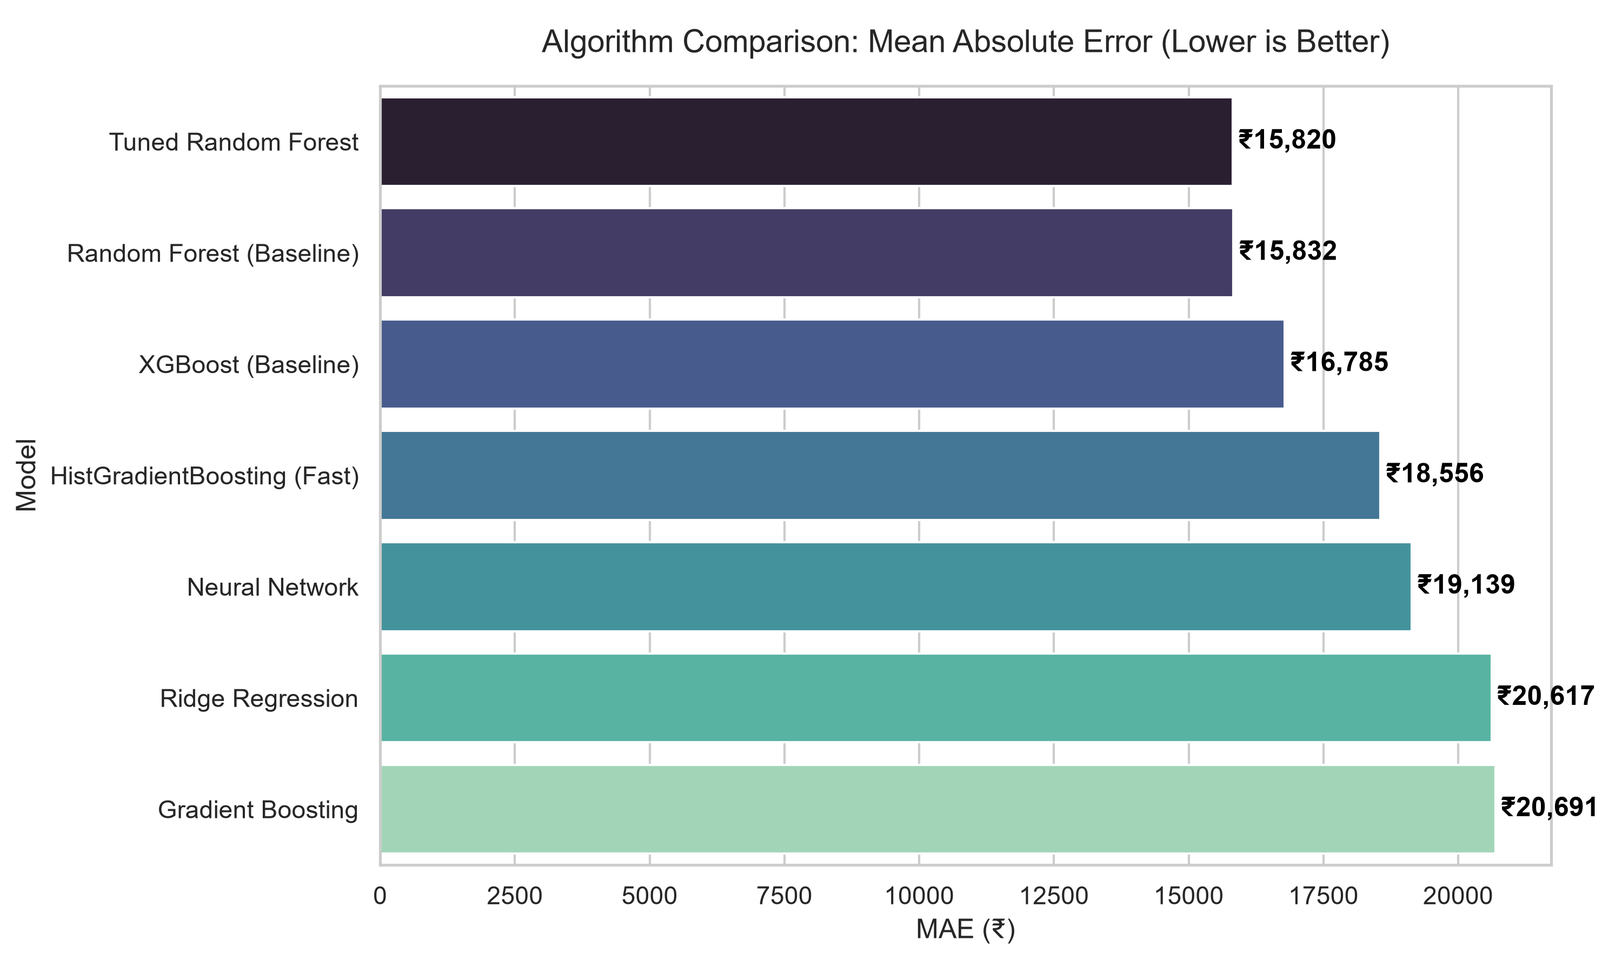
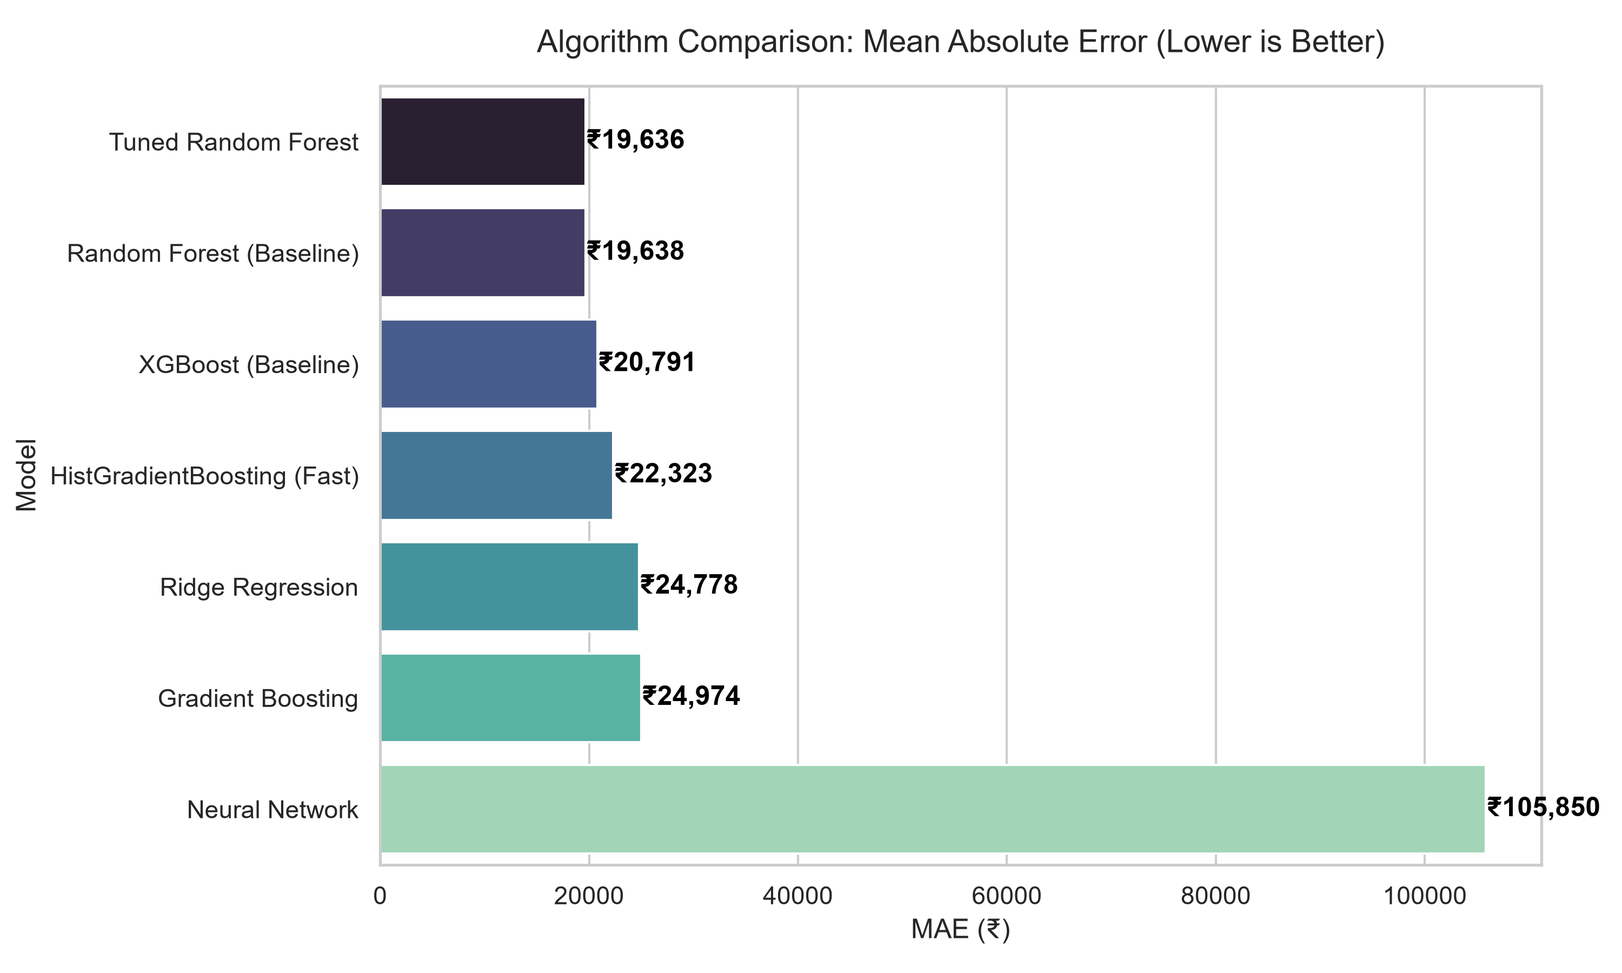
chore: perform comprehensive repository audit and initialize backend infrastructure for ML model management and data processing.

diff --git a/backend/ml/compare_models.py b/backend/ml/compare_models.py
@@ -32,8 +32,8 @@ df = clean_laptop_data(df)
 df = df[(df["price"] >= 10000) & (df["price"] <= 500000)]
 
 # ─── 3. Features, Preprocessing, Outliers ──────────────────────────────────────
-from data_cleaning import prepare_training_data
-X, y, preprocessor, df, categorical_cols, numerical_cols = prepare_training_data(df)
+from data_cleaning import get_features_and_preprocessor
+X, y, preprocessor, categorical_cols, numerical_cols = get_features_and_preprocessor(df)
 
 
 # ─── 4. Models to Compare ─────────────────────────────────────────────────────

diff --git a/PROJECT_REVIEW.md b/PROJECT_REVIEW.md
@@ -1,0 +1,230 @@
+# LaptopLens repository improvement audit
+
+Reviewed 2026-07-05 using the codebase knowledge graph, direct inspection of every tracked source/configuration area, Python compilation and import smoke tests, Flask test-client probes, Ruff, and a Vite production build attempt.
+
+## Highest-priority findings
+
+1. **[Critical correctness] Recommendation cache keys omit most inputs.** `backend/api/app.py:479` keys only on predicted price, confidence band, and use case. It omits RAM, processor/CPU tier, GPU, brand, `use_live`, and future ranking inputs. A test-client probe confirmed that requests for different specs return identical cached laptops. Serialize every normalized ranking input (and a cache/data schema version) into the key.
+
+2. **[High availability/security] Public requests can launch browsers.** `POST /api/recommend` accepts `use_live`, and `GET /api/laptop-image` can start Selenium for arbitrary names. There is no authentication, rate limit, concurrency limit, queue, or circuit breaker. One caller can exhaust CPU, RAM, browser processes, and worker slots. Disable live scraping in the public API by default, restrict it server-side, validate input length, rate-limit it, and move browser work to a bounded job worker.
+
+3. **[High deployment] Playwright system dependency installation runs after switching to a non-root user.** In `Dockerfile:29-42`, `USER user` precedes `playwright install-deps chromium`; that command normally needs root for apt packages. `|| echo` then hides failure, producing a successful image with broken live scraping. Install OS/browser dependencies as root, then switch users; fail explicitly when live scraping is enabled.
+
+4. **[High ML validity] Outlier removal leaks information across folds.** `backend/ml/data_cleaning.py:115-125` fits preprocessing on the entire dataset before cross-validated outlier predictions, then removes rows before the later model CV. Validation folds influence feature encoding and inclusion. Put all learned preprocessing/outlier logic inside each training fold, or derive cleaning thresholds on training folds only.
+
+5. **[High ML validity] There is no untouched final test set.** `backend/ml/train_model.py:84-113` uses cross-validation scores for reporting and then fits on all data. This is fine for model selection only if a separate test set or external temporal evaluation exists. Preserve a final holdout (ideally time/source/group split) and report both CV and holdout results.
+
+6. **[High reliability] The in-memory cache is inconsistent across Gunicorn workers.** `Dockerfile` starts two workers, each with its own `scrape_cache`. Hits, invalidations, and browser suppression differ by worker and disappear on restart. Use Redis or another shared bounded cache, or deliberately run one worker and document the tradeoff.
+
+7. **[High reliability] Cache growth is unbounded.** `TTLCache` lazily expires only accessed keys and has no maximum size or cleanup pass. Arbitrary price/band/use-case combinations can accumulate for three hours per worker. Add `maxsize`, periodic expiry, canonicalized/bucketed keys, and metrics.
+
+8. **[High API hygiene] Internal exception strings are returned to clients.** `backend/api/app.py:438-440` and `:545-548` turn unexpected exceptions into public 400 responses. This misclassifies server faults and may expose paths/library details. Return stable error codes/messages, use 500 for unexpected failures, and retain details only in logs.
+
+9. **[High reproducibility] Python dependencies are not locked.** `requirements.txt` uses only lower bounds. Future image builds can silently change NumPy, pandas, scikit-learn, XGBoost, Selenium, or Flask and break pickle compatibility. Produce a hashed lock/constraints file, document the Python version, and rebuild model artifacts under the same environment.
+
+10. **[High supply-chain/reproducibility] Runtime unpickling trusts checked-in binary artifacts.** `backend/api/app.py:56-60` and the CLI load pickle files at startup. Pickle executes code and is version-sensitive. Treat artifacts as trusted release assets with checksums/provenance; consider safer model formats or signed artifacts.
+
+## Backend and API
+
+11. Add explicit request schemas (Pydantic/Marshmallow/dataclasses) instead of permissive coercion. Missing/malformed numbers currently become defaults, so typos can yield plausible but wrong predictions rather than a 422 response.
+
+12. Validate `Content-Type: application/json`; `_json_body()` silently turns any invalid body into `{}`. Distinguish malformed JSON from missing required fields.
+
+13. Set `MAX_CONTENT_LENGTH` and reject oversized bodies before parsing.
+
+14. Validate categorical values against metadata server-side. The API only checks non-empty strings, while the model silently ignores unknown one-hot categories.
+
+15. Validate `use_case` against the supported enum. Unknown strings bypass filters and fragment the cache.
+
+16. Reject or normalize non-finite floats (`NaN`, `Infinity`) explicitly in `_as_float` using `math.isfinite`.
+
+17. Move `NUM_BOUNDS` to module configuration shared by API, UI metadata, training, and tests; duplicated implicit bounds will drift.
+
+18. The recommendation endpoint docstring says source is `mock|live`, but implementation also returns `real`. Update the contract and frontend types/comments.
+
+19. The recommendation cache should not use truthiness (`if cached:`); check `is not None` so valid empty results are cacheable.
+
+20. Include dataset/model version in recommendation cache keys to prevent stale results after deployments.
+
+21. Precompute normalized recommendation features when loading the CSV. `_recommend_from_real_data` reparses and rebuilds vectors for all 6,184 rows on every cache miss.
+
+22. Avoid `DataFrame.iterrows()` at import time. Use vectorized cleanup/`to_dict("records")`, validate the CSV schema, and quarantine malformed rows instead of abandoning the whole load.
+
+23. Do not perform model and full-dataset loading as import side effects. Use an app factory/lifespan initialization so tests, CLI tools, and worker preload behavior are controllable.
+
+24. Consider Gunicorn `--preload` after measuring copy-on-write behavior; two workers currently load duplicate model/data state.
+
+25. `run_async` creates a new event loop inside a synchronous request. Move async scraping behind a worker, or use a consistent async server boundary; also ensure pending tasks/async generators are cleaned up.
+
+26. Add API versioning (`/api/v1`) before the response contract grows further.
+
+27. Add structured request IDs, latency/error metrics, cache hit metrics, scraper outcomes, and model/data version fields to logs.
+
+28. Add health/readiness endpoints that separately report process health, model availability, dataset availability, and optional scraper readiness.
+
+29. Avoid global `logging.basicConfig` in an imported module; configure logging in the application entry point/Gunicorn configuration.
+
+30. `render.yaml` explicitly sets `CORS_ORIGINS` to an empty value, which disables the documented default origins. Make same-origin intent explicit or set the actual split-frontend origin per environment.
+
+31. The catch-all frontend route returns HTML 404s for unknown `/api/...` GET routes. Add an API-specific JSON 404 handler and ensure the SPA fallback never masks API mistakes.
+
+32. Add standard security headers (CSP appropriate for the app, `X-Content-Type-Options`, Referrer Policy, frame policy) at Flask or the hosting layer.
+
+33. Validate/sanitize outbound product and image URLs to allowed `https` domains before returning them. Scraped CSV values currently flow to browser `href`/`src` fields.
+
+## Scrapers and data quality
+
+34. Consolidate the duplicate Flipkart implementations (`flipkart_scraper.py` and `amazon_flipkart_scraper.py`). They use different drivers, parsing, result schemas, retry behavior, and product IDs.
+
+35. Put every Selenium driver shutdown in `finally`. Several paths manually call `quit()`, so unexpected errors/rebuild failures can leak processes.
+
+36. Replace bare `except:` at `amazon_flipkart_scraper.py:398` and `:557` with narrow exceptions; never swallow `KeyboardInterrupt`/`SystemExit`.
+
+37. Replace long string chains used to detect dead WebDriver sessions with typed Selenium exceptions and one bounded retry policy.
+
+38. URL-encode queries with `urllib.parse.urlencode/quote_plus`, not `.replace(" ", "+")`; punctuation and non-ASCII model names are otherwise malformed.
+
+39. Add retry caps and exponential backoff with jitter. Smartprix 403/429 and timeout branches can retry the same page forever.
+
+40. Reuse a `requests.Session`, set a complete retry adapter, and honor `Retry-After` for Smartprix.
+
+41. Version selectors and store fixture HTML tests. Marketplace CSS selectors are brittle and currently untested.
+
+42. Do not fabricate unknown specs as real facts. `_parse_specs_from_title` defaults unknown CPU to Core i5, gaming GPU to RTX 4060, OS to Windows 11, and display/resolution/storage to common values. Add confidence/provenance fields and represent unknowns as null; otherwise training and recommendations are systematically biased.
+
+43. Expand processor/GPU parsing beyond Apple M1-M3; current patterns miss newer generations and many AMD/Intel naming variants.
+
+44. Distinguish screen centimeters from inches. The display regex mentions `cm/` but reads the captured number as inches.
+
+45. Detect storage and RAM independently across multiple matches; the first generic `GB` match can still misclassify titles with unusual ordering.
+
+46. Deduplicate by stable marketplace product ID/URL, not MD5 of normalized name. Different variants can share a title and the same product can change titles.
+
+47. Use a non-cryptographic explicit stable ID or SHA-256 if collision resistance matters; MD5 is confusing even though it is not being used for security here.
+
+48. Validate CSV rows and URLs before incremental writes; add atomic replacement plus backups. File locking alone does not protect against malformed partial data or schema drift.
+
+49. `image_cache.json` is process-local file state with whole-file rewrites and broad exception swallowing. Use the shared cache/database, atomic writes, and corruption telemetry.
+
+50. The scraper intentionally masks automation signals despite the repository acknowledging Terms-of-Service concerns. For a production portfolio, prefer official affiliate/product APIs and remove anti-detection behavior.
+
+## Machine learning
+
+51. Group train/test splits by product family/model and preferably source/time. Near-duplicate listings across marketplaces can otherwise leak into multiple folds and inflate scores.
+
+52. Use a regression-aware split strategy and publish uncertainty across folds, not only mean metrics.
+
+53. Fit an imputer inside the pipeline. Missing numerical/categorical values can currently break training or inference depending on library behavior.
+
+54. Dense one-hot encoding (`sparse_output=False`) can consume substantial memory as categories grow. Keep sparse output where estimator support permits, or constrain/category-encode high-cardinality processor/GPU fields.
+
+55. Reconsider scaling tree inputs and ordinal assumptions; document why a VotingRegressor of XGBoost and Ridge is preferable to the README’s claimed model.
+
+56. Feature importance is taken only from the XGBoost member of the ensemble, then presented as model explainability. Label it accurately or use permutation/SHAP on the complete prediction pipeline.
+
+57. Persist training configuration, git/data hashes, library versions, timestamp, and evaluation results alongside the model.
+
+58. Add deterministic dataset snapshots and data-quality checks: duplicates, missingness, impossible RAM/storage/resolution combinations, price distribution by source, and parser-confidence coverage.
+
+59. `extract_number` joins every digit/dot in a value; strings containing multiple numbers can become invalid or misleading. Use a single well-defined regex and units.
+
+60. `clean_gpu` performs quadratic list membership deduplication and contains redundant replacements/imports. More importantly, token deduplication can alter meaningful GPU names; use canonical mapping rules with tests.
+
+61. Training scripts execute expensive work at import time. Put them under `main()`, expose arguments, and make comparison/training functions reusable and testable.
+
+62. Remove unused imports and late imports; Ruff reports 66 issues, including 22 auto-fixable ones.
+
+## Frontend
+
+63. Add ESLint, Prettier, and type checking (TypeScript or at least JSDoc-checking). The package has build only—no lint/test/check scripts.
+
+64. Add component and API-contract tests (Vitest + Testing Library) and at least one browser smoke test for metadata → prediction → recommendations.
+
+65. Split the 322-line `SpecForm` (cognitive complexity 38) into hooks and field components. Move CPU parsing/filtering out of render and memoize derived option lists.
+
+66. The UI maintains `_cpuBrand`/`_cpuTier` inside the submitted values object. Keep transient UI state separate so internal keys never leak into API payloads.
+
+67. Associate all labels with controls using `htmlFor`/`id`; most labels in `SpecForm` are visually adjacent but not programmatically connected.
+
+68. Give the loading spinner an accessible status/name and mark decorative emoji appropriately. Announce prediction/recommendation/toast changes with suitable live regions.
+
+69. Manage toast timers with a ref/effect. Multiple toasts currently leave older timers that can clear newer messages, and timers survive unmount.
+
+70. Cancel `requestAnimationFrame` in the count-up hook cleanup to prevent state updates after unmount or target changes.
+
+71. Cancel or supersede Axios requests when a new prediction starts/unmount occurs; stale responses can overwrite newer state.
+
+72. Add explicit empty, retry, offline, and partial-data states instead of relying mainly on toast messages.
+
+73. Centralize Axios error normalization and distinguish timeout, validation, server, and network failures.
+
+74. The 30-second frontend timeout conflicts with server/browser work that may take much longer. Prefer asynchronous jobs; at minimum align and communicate timeouts.
+
+75. Remove unused `chart.js` and `react-chartjs-2` dependencies unless charts are restored; they add install/bundle/security surface.
+
+76. Do not commit a personal deployment URL in `.env.production`. Configure production URL in deployment settings, or use same-origin requests when Flask serves the bundle.
+
+77. Add runtime validation of API responses so malformed/older backend payloads fail gracefully.
+
+78. Add image dimensions/aspect ratio and robust domain/referrer behavior; remote marketplace image hotlinks often expire or block embeds.
+
+79. Lazy image fallback invokes the expensive backend image scraper for every missing image. Prefer a static placeholder or preprocessed image service, with bounded background enrichment.
+
+80. Audit responsive layout, keyboard focus visibility, contrast, reduced-motion support, and screen-reader flow with automated accessibility checks plus manual keyboard testing.
+
+## Repository, documentation, and operations
+
+81. Add CI for Python compile/lint/tests, frontend install/lint/test/build, dependency checks, Docker build, and a Flask smoke test.
+
+82. Add actual unit tests; `scratch/test_*` scripts are ignored and are not a maintained test suite.
+
+83. Correct README commands: backend files live under `backend/...`, so root-level `python train_model.py` and `python app.py` are wrong.
+
+84. Correct README architecture: the current trainer is an XGBoost+Ridge voting ensemble with transformed target, while the README alternately claims Random Forest, HistGradientBoosting, and XGBoost.
+
+85. Correct README data statements: it claims 900+, ~6,000, and a curated `data.csv` with `--data-source`, but the current script uses `backend/data/raw/data_real.csv` and exposes no such argument.
+
+86. Replace the stale project tree, which lists nonexistent root files/database assets and omits the current backend structure.
+
+87. Add a license file; a README sentence is not a complete distributable license.
+
+88. Add contribution/development guidance, code style, test commands, supported platforms, and scraper/legal constraints.
+
+89. Pin the Node version (`.nvmrc`/`.node-version`/package `engines`) and use `npm ci` consistently in docs and CI.
+
+90. Add Python project configuration (`pyproject.toml`) for Ruff, tests, packaging/import paths, and supported Python version.
+
+91. Add dependency vulnerability and license scanning with a documented update cadence.
+
+92. Remove generated/runtime artifacts from source where practical. Large CSV/model binaries should have documented provenance and may belong in versioned release/object storage or Git LFS.
+
+93. Add `.dockerignore` coverage checks so local caches, graphs, scratch content, and unnecessary assets do not inflate build context.
+
+94. Use a Docker health check and pin base images by digest for reproducible releases.
+
+95. Avoid swallowing the Playwright installation failure in Docker; build variants (`core` and `scraper`) are clearer and smaller.
+
+96. Review system packages in the image: both Selenium and Playwright stacks are installed even though production normally uses neither, increasing image size and attack surface.
+
+97. Fix source/text encoding consistency. The PowerShell inspection displayed mojibake for rupee signs, arrows, emoji, and box drawing; enforce UTF-8 through `.editorconfig`, CI, and terminal/docs guidance.
+
+98. Keep the codebase knowledge graph artifact/index refreshed in CI or documented developer workflow so architectural review does not drift.
+
+## Verification notes
+
+- Knowledge graph: ready; 397 nodes, 855 edges, 39 indexed files, 98 functions/methods, five HTTP routes.
+- Python: `python -m compileall -q backend` passed.
+- Flask import/route smoke test passed; model loaded with MAE 17,337.38 and 6,184 recommendation rows.
+- Cache collision probe failed as described in finding 1.
+- Ruff 0.15.20 found 66 issues (22 auto-fixable); no fixes were applied during this review.
+- Vite transformed all 87 modules, then the environment denied creation of both repository and temporary output directories (`EPERM`). This is not evidence of a source compilation failure, but the production artifact could not be fully emitted in this sandbox.
+- CodeRabbit was not run: it was absent, and the remote install-script execution was rejected by the security approval layer. No result in this document is attributed to CodeRabbit.
+
+## Suggested execution order
+
+1. Fix findings 1-10 and add regression/API tests.
+2. Establish CI, locks, and a real test suite (81, 82, 89-91).
+3. Repair ML evaluation/data provenance (4, 5, 51-60).
+4. Isolate or remove public live scraping (2, 3, 34-50, 95-96).
+5. Refactor frontend/backend hotspots and complete accessibility/observability work.
+6. Reconcile documentation with the verified implementation.

diff --git a/README.md b/README.md
@@ -26,7 +26,7 @@ An AI-powered platform that predicts a fair laptop price, finds matching real-ti
 | 📦 **Recommendation Cards** | Matching laptops with spec match scores |
 | 🛒 **Dynamic Buying Links** | Instantly redirects to live **Flipkart** and **Amazon** search results |
 | 🏷 **Use-Case Filter** | Gaming / Office / Design / Programming / General |
-| 📝 **Mock → Live** | Demo works offline; live Flipkart scraper is optional |
+| 📝 **Mock → Live** | Demo works offline; live Amazon/Flipkart/Smartprix scrapers are optional |
 | 🛡 **Secure Model Loads** | Enforces strict SHA-256 checksums to ensure pickle file integrity |
 
 ## Tech Stack
@@ -34,7 +34,7 @@ An AI-powered platform that predicts a fair laptop price, finds matching real-ti
 - **Frontend**: React 18 + Vite + Tailwind CSS
 - **Backend**: Flask 3 + Gunicorn (Single Worker to protect in-memory cache)
 - **ML Model**: Voting Regressor (XGBoost + Ridge) inside a TransformedTargetRegressor
-- **Scraping**: Playwright (optional) + pre-scraped data + mock data fallback
+- **Scraping**: Playwright (Flipkart/Amazon) + Requests/BS4 (Smartprix) + pre-scraped data + mock data fallback
 - **Deployment**: Hugging Face Spaces (Docker)
 
 ## Algorithm Comparison & Pipeline Robustness
@@ -44,9 +44,9 @@ To ensure the highest accuracy for price predictions, we trained and evaluated m
 ### Phase 1: Baseline Models
 Evaluated on the raw scraped dataset (6,000+ rows).
 
-- **Random Forest**: R² = 0.665 | MAE = ₹19,397
-- **XGBoost**: R² = 0.624 | MAE = ₹21,560
-- **Neural Network (MLP)**: R² = -12.027 | MAE = ₹27,781 *(Performed worse than random baseline on this tabular dataset)*
+- **Random Forest**: R² = 0.659 | MAE = ₹19,637
+- **XGBoost**: R² = 0.641 | MAE = ₹20,790
+- **Neural Network (MLP)**: R² = -4089.639 | MAE = ₹105,849 *(Performed severely worse than a random baseline on this tabular dataset)*
 
 ### Phase 2: Post-Improvements 🏆 (Current Implementation)
 
@@ -77,6 +77,9 @@ python backend/ml/train_model.py
 # 4. Start Flask (Requires PYTHONPATH on some terminals)
 python backend/api/app.py
 # → http://localhost:5000
+
+# Optional: Run the interactive CLI pricing tool
+python backend/cli/main.py
 ```
 
 *Note: Live scraping is disabled by default to avoid accidental headless browsing restrictions. You can enable it by passing `ENABLE_LIVE_SCRAPING=true` in your `.env`.*
@@ -137,16 +140,24 @@ If the Flask backend is deployed on Hugging Face Spaces and the React frontend i
 Laptoplens/
 ├── backend/
 │   ├── api/
-│   │   └── app.py                  # Flask API & Routes
+│   │   ├── app.py                  # Flask API & Routes
+│   │   └── utils.py                # Helper utilities (e.g. GPU parsing)
+│   ├── cli/
+│   │   └── main.py                 # Interactive command-line pricing tool
 │   ├── ml/
 │   │   ├── train_model.py          # Training script & Checksum generation
 │   │   ├── data_cleaning.py        # Leakage-free outlier detection
+│   │   ├── compare_models.py       # Script to benchmark algorithms
 │   │   └── model/                  # Saved artifacts and Checksums
 │   ├── scraper/
 │   │   ├── cache.py                # TTLCache with LRU Eviction limits
 │   │   ├── mock_data.py            # Generates dynamic mock laptops
-│   │   └── flipkart_scraper.py     # Playwright scraper (if enabled)
-│   └── data/                       # CSV datasets
+│   │   ├── flipkart_scraper.py     # Base Playwright scraper
+│   │   ├── amazon_flipkart_scraper.py # Unified Playwright scraping interface
+│   │   ├── smartprix_scraper.py    # Overnight scraping using Requests/BS4
+│   │   └── image_fetcher.py        # Laptop image fetching & caching
+│   └── data/                       
+│       └── raw/                    # Contains raw dataset like data_real.csv
 ├── frontend/                       # React + Vite App
 ├── Dockerfile                      # Multi-stage optimized Docker build
 └── requirements.txt                # Strictly pinned dependencies
